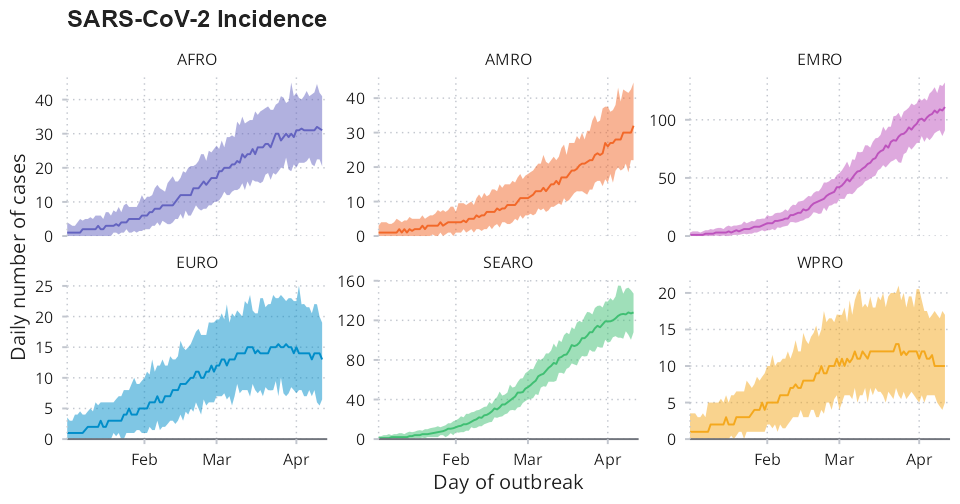
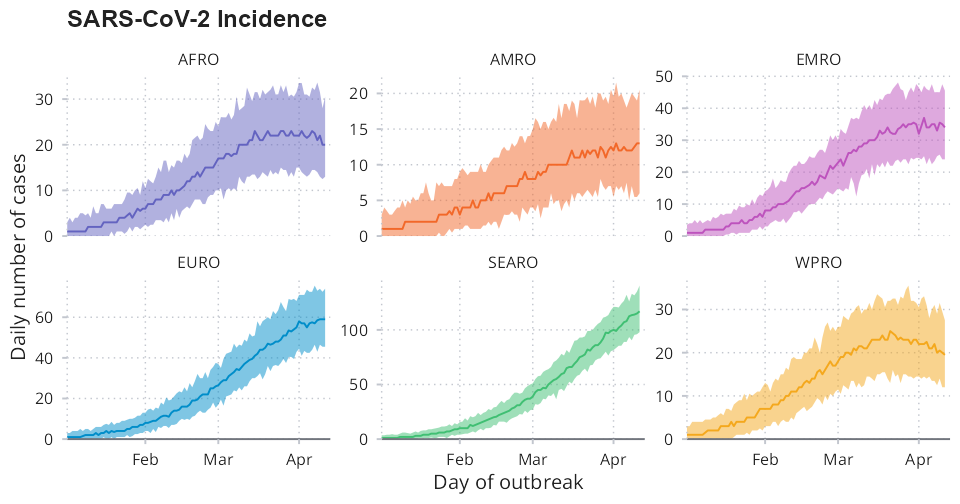
updated Readme

diff --git a/README.md b/README.md
@@ -11,12 +11,12 @@ colours into R. Install it using:
 pak::pak("finlaycampbell/whopals")
 ```
 
+## Palettes
+
 Palettes are exposed as `whopals::pal_*` functions. Use the `theme`
 argument to specify a light or dark theme, `component` to specify the
 plot component such as text or base, and `variant` to select a palette
 variant where available. The available palettes are displayed below.
-
-------------------------------------------------------------------------
 
 **`pal_region()`**
 
@@ -78,11 +78,15 @@ variant where available. The available palettes are displayed below.
 
 ![](man/figures/README-pal-selection-1.png)<!-- -->
 
-## Example column chart
+## Themes
 
-The figures below give an example of the color palettes using the light
-and dark themes.
+The basic design guidelines are implemented as `ggplot2` themes and
+displayed below.
+
+**`theme_who_dark()`**
 
 ![](man/figures/README-example-col-dark-1.png)<!-- -->
+
+**`theme_who_light()`**
 
 ![](man/figures/README-example-col-light-1.png)<!-- -->